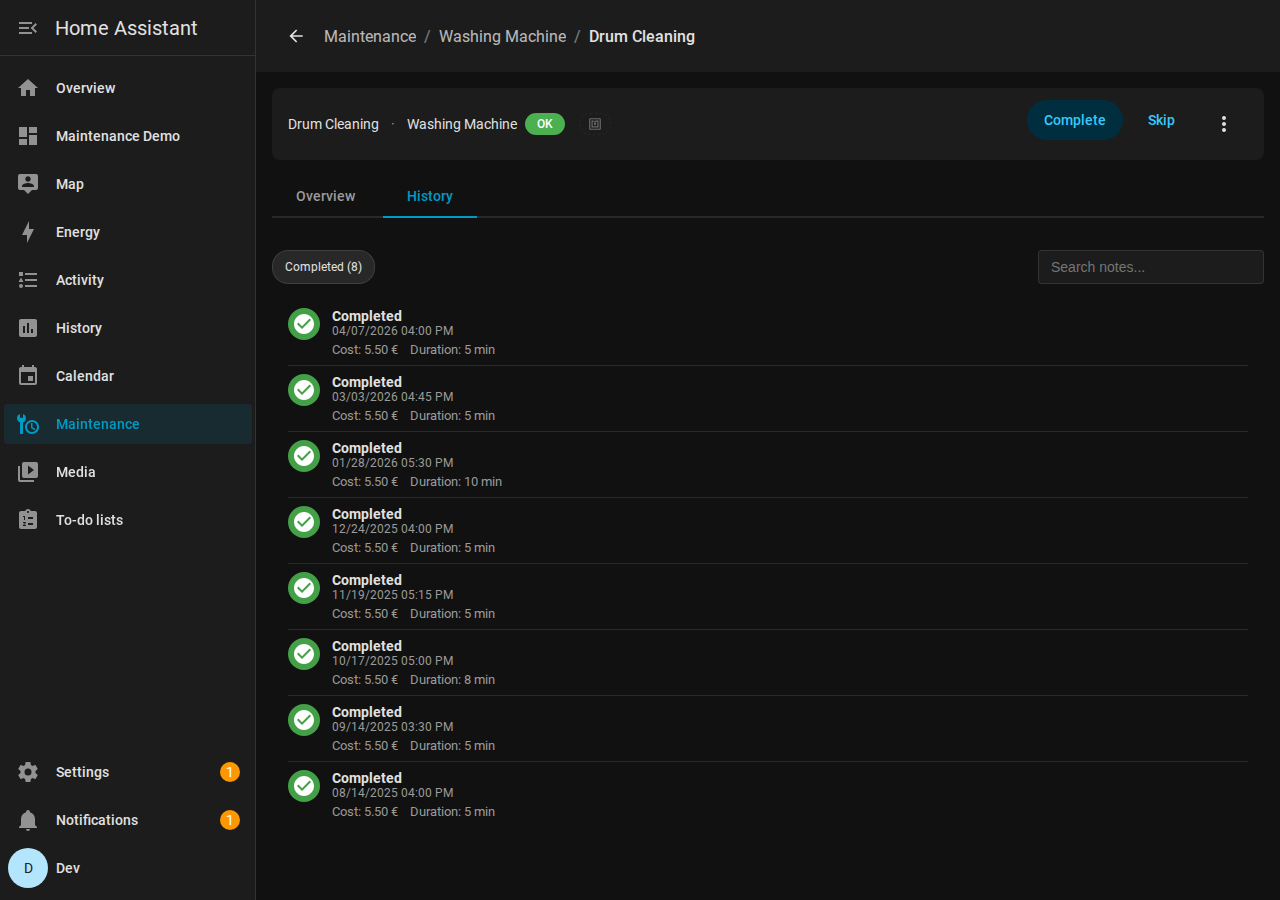
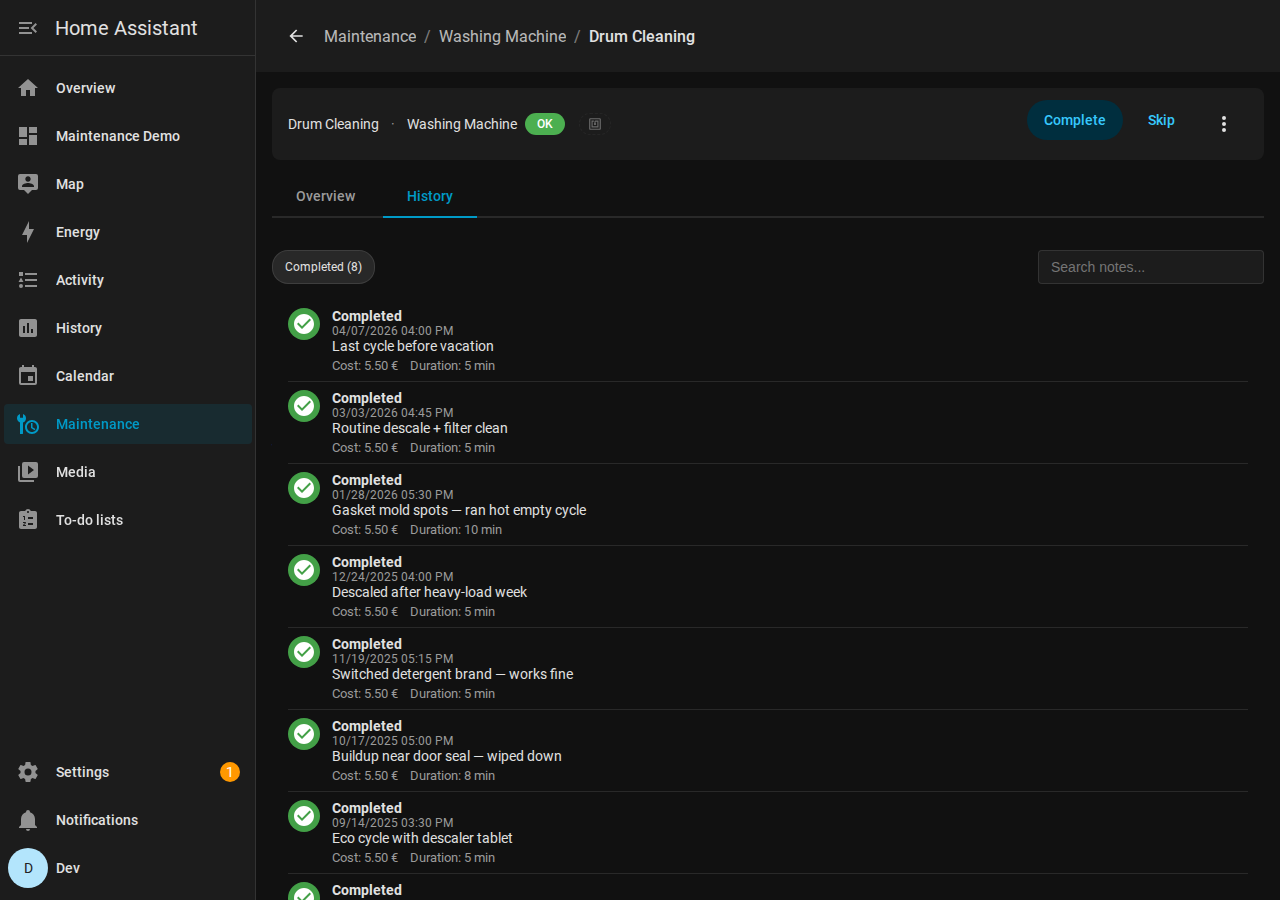
fix: Recent Activities showed oldest completions instead of newest
task.history is stored oldest-first (backend appends on complete), so
slice(0, 3) was pulling the three earliest entries — often missing the
one the user had just logged. Switched to slice(-3).reverse() so the
task-detail Overview now matches the label "Recent Activities".

Also replaced all remaining German completion notes in seed_history.py
with English equivalents and filled in notes for the 8 Washing Machine
Drum Cleaning and 3 recent Swimming Pool pH Test entries, so the
task-history and complete-dialog screenshots demonstrate the feature
instead of rendering "—" placeholders.

Changed region(s): [[0.2188, 0.3733, 0.4688, 1.0], [0.1562, 0.9022, 0.1875, 0.9333]]

diff --git a/custom_components/maintenance_supporter/frontend/maintenance-panel.js b/custom_components/maintenance_supporter/frontend/maintenance-panel.js
@@ -4120,7 +4120,7 @@ ${Y}`,e.setTooltip)}
           </ha-button>
         </div>
       </div>
-    `}_renderRecentActivities(e){let t=this._lang,i=e.history.slice(0,3);if(i.length===0)return d;let s=l=>{switch(l){case"completed":return"\u2713";case"triggered":return"\u2297";case"skipped":return"\u21B7";case"reset":return"\u21BA";default:return"\xB7"}};return o`
+    `}_renderRecentActivities(e){let t=this._lang,i=e.history.slice(-3).reverse();if(i.length===0)return d;let s=l=>{switch(l){case"completed":return"\u2713";case"triggered":return"\u2297";case"skipped":return"\u21B7";case"reset":return"\u21BA";default:return"\xB7"}};return o`
       <div class="recent-activities">
         <h3>${a("recent_activities",t)}</h3>
         ${i.map(l=>o`

diff --git a/custom_components/maintenance_supporter/frontend-src/maintenance-panel.ts b/custom_components/maintenance_supporter/frontend-src/maintenance-panel.ts
@@ -1576,7 +1576,7 @@ export class MaintenanceSupporterPanel extends LitElement {
 
   private _renderRecentActivities(task: MaintenanceTask) {
     const L = this._lang;
-    const recent = task.history.slice(0, 3);
+    const recent = task.history.slice(-3).reverse();
 
     if (recent.length === 0) {
       return nothing;

diff --git a/scripts/seed_history.py b/scripts/seed_history.py
@@ -44,13 +44,13 @@ HISTORY_DATA: dict[str, dict[str, dict]] = {
     "HVAC System": {
         "Filter Replacement": {
             "history": [
-                {"timestamp": days_ago(322, 9, 30), "type": "completed", "notes": "Filter stark verschmutzt",
+                {"timestamp": days_ago(322, 9, 30), "type": "completed", "notes": "Filter very dirty",
                  "cost": 28.90, "duration": 20, "feedback": "needed", "trigger_value": 57},
-                {"timestamp": days_ago(235, 14, 0), "type": "completed", "notes": "Normaler Verschleiß",
+                {"timestamp": days_ago(235, 14, 0), "type": "completed", "notes": "Normal wear",
                  "cost": 28.90, "duration": 15, "feedback": "needed", "trigger_value": 62},
-                {"timestamp": days_ago(146, 10, 15), "type": "completed", "notes": "Noch ok, vorsorglich gewechselt",
+                {"timestamp": days_ago(146, 10, 15), "type": "completed", "notes": "Still OK, replaced preventively",
                  "cost": 32.50, "duration": 20, "feedback": "not_sure", "trigger_value": 68},
-                {"timestamp": days_ago(59, 11, 0), "type": "completed", "notes": "Winterbetrieb, Filter verschmutzt",
+                {"timestamp": days_ago(59, 11, 0), "type": "completed", "notes": "Winter operation, filter dirty",
                  "cost": 32.50, "duration": 25, "feedback": "needed", "trigger_value": 55},
             ],
         },
@@ -58,7 +58,7 @@ HISTORY_DATA: dict[str, dict[str, dict]] = {
     "Family Car": {
         "Oil Change": {
             "history": [
-                {"timestamp": days_ago(261, 8, 0), "type": "completed", "notes": "Werkstatt, 5W-30 Longlife",
+                {"timestamp": days_ago(261, 8, 0), "type": "completed", "notes": "Workshop, 5W-30 Longlife",
                  "cost": 89.90, "duration": 45, "feedback": "needed", "trigger_value": 45000},
             ],
             "trigger_runtime": {
@@ -67,9 +67,9 @@ HISTORY_DATA: dict[str, dict[str, dict]] = {
         },
         "Tire Rotation": {
             "history": [
-                {"timestamp": days_ago(311, 10, 0), "type": "completed", "notes": "Winter auf Sommer getauscht",
+                {"timestamp": days_ago(311, 10, 0), "type": "completed", "notes": "Winter-to-summer swap",
                  "cost": 45.00, "duration": 30, "feedback": "needed"},
-                {"timestamp": days_ago(127, 9, 30), "type": "completed", "notes": "Sommer auf Winter getauscht",
+                {"timestamp": days_ago(127, 9, 30), "type": "completed", "notes": "Summer-to-winter swap",
                  "cost": 49.00, "duration": 35, "feedback": "needed"},
             ],
         },
@@ -77,14 +77,22 @@ HISTORY_DATA: dict[str, dict[str, dict]] = {
     "Washing Machine": {
         "Drum Cleaning": {
             "history": [
-                {"timestamp": days_ago(250, 18, 0), "type": "completed", "cost": 5.50, "duration": 5, "feedback": "needed"},
-                {"timestamp": days_ago(219, 17, 30), "type": "completed", "cost": 5.50, "duration": 5, "feedback": "needed"},
-                {"timestamp": days_ago(186, 19, 0), "type": "completed", "cost": 5.50, "duration": 8, "feedback": "needed"},
-                {"timestamp": days_ago(153, 18, 15), "type": "completed", "cost": 5.50, "duration": 5, "feedback": "not_sure"},
-                {"timestamp": days_ago(118, 17, 0), "type": "completed", "cost": 5.50, "duration": 5, "feedback": "needed"},
-                {"timestamp": days_ago(83, 18, 30), "type": "completed", "cost": 5.50, "duration": 10, "feedback": "needed"},
-                {"timestamp": days_ago(49, 17, 45), "type": "completed", "cost": 5.50, "duration": 5, "feedback": "needed"},
-                {"timestamp": days_ago(14, 18, 0), "type": "completed", "cost": 5.50, "duration": 5, "feedback": "not_needed"},
+                {"timestamp": days_ago(250, 18, 0), "type": "completed", "notes": "Quarterly descaling — minor residue",
+                 "cost": 5.50, "duration": 5, "feedback": "needed"},
+                {"timestamp": days_ago(219, 17, 30), "type": "completed", "notes": "Eco cycle with descaler tablet",
+                 "cost": 5.50, "duration": 5, "feedback": "needed"},
+                {"timestamp": days_ago(186, 19, 0), "type": "completed", "notes": "Buildup near door seal — wiped down",
+                 "cost": 5.50, "duration": 8, "feedback": "needed"},
+                {"timestamp": days_ago(153, 18, 15), "type": "completed", "notes": "Switched detergent brand — works fine",
+                 "cost": 5.50, "duration": 5, "feedback": "not_sure"},
+                {"timestamp": days_ago(118, 17, 0), "type": "completed", "notes": "Descaled after heavy-load week",
+                 "cost": 5.50, "duration": 5, "feedback": "needed"},
+                {"timestamp": days_ago(83, 18, 30), "type": "completed", "notes": "Gasket mold spots — ran hot empty cycle",
+                 "cost": 5.50, "duration": 10, "feedback": "needed"},
+                {"timestamp": days_ago(49, 17, 45), "type": "completed", "notes": "Routine descale + filter clean",
+                 "cost": 5.50, "duration": 5, "feedback": "needed"},
+                {"timestamp": days_ago(14, 18, 0), "type": "completed", "notes": "Last cycle before vacation",
+                 "cost": 5.50, "duration": 5, "feedback": "not_needed"},
             ],
             "trigger_runtime": {
                 "input_boolean.washing_machine_running": {"change_count": 6},
@@ -94,16 +102,16 @@ HISTORY_DATA: dict[str, dict[str, dict]] = {
     "Water Softener": {
         "Refill Salt": {
             "history": [
-                {"timestamp": days_ago(302, 10, 0), "type": "completed", "notes": "25kg Sack",
+                {"timestamp": days_ago(302, 10, 0), "type": "completed", "notes": "25kg bag",
                  "cost": 15.90, "duration": 10, "feedback": "needed", "trigger_value": 32},
                 {"timestamp": days_ago(256, 9, 30), "type": "completed",
                  "cost": 15.90, "duration": 12, "feedback": "needed", "trigger_value": 24},
                 {"timestamp": days_ago(212, 11, 0), "type": "completed",
                  "cost": 18.50, "duration": 10, "feedback": "needed", "trigger_value": 12},
-                {"timestamp": days_ago(170, 0, 0), "type": "skipped", "notes": "Im Urlaub"},
+                {"timestamp": days_ago(170, 0, 0), "type": "skipped", "notes": "On vacation"},
                 {"timestamp": days_ago(155, 10, 30), "type": "completed",
                  "cost": 18.50, "duration": 15, "feedback": "needed", "trigger_value": 8},
-                {"timestamp": days_ago(110, 9, 0), "type": "completed", "notes": "Doppelpack gekauft",
+                {"timestamp": days_ago(110, 9, 0), "type": "completed", "notes": "Bought double pack",
                  "cost": 22.00, "duration": 10, "feedback": "needed", "trigger_value": 28},
                 {"timestamp": days_ago(52, 10, 0), "type": "completed",
                  "cost": 18.50, "duration": 12, "feedback": "needed", "trigger_value": 16},
@@ -134,13 +142,13 @@ HISTORY_DATA: dict[str, dict[str, dict]] = {
     "Water Filter System": {
         "Cartridge Replacement": {
             "history": [
-                {"timestamp": days_ago(663, 10, 0), "type": "completed", "notes": "Erster Wechsel nach Einbau",
+                {"timestamp": days_ago(663, 10, 0), "type": "completed", "notes": "First change after install",
                  "cost": 48.00, "duration": 15, "feedback": "needed", "trigger_value": 2.1},
-                {"timestamp": days_ago(474, 11, 0), "type": "completed", "notes": "Zu lange gewartet, Durchfluss sehr niedrig",
+                {"timestamp": days_ago(474, 11, 0), "type": "completed", "notes": "Waited too long, flow very low",
                  "cost": 50.00, "duration": 18, "feedback": "needed", "trigger_value": 1.5},
-                {"timestamp": days_ago(293, 11, 0), "type": "completed", "notes": "Durchfluss bei 1.8 L/min",
+                {"timestamp": days_ago(293, 11, 0), "type": "completed", "notes": "Flow at 1.8 L/min",
                  "cost": 52.00, "duration": 20, "feedback": "needed", "trigger_value": 1.8},
-                {"timestamp": days_ago(118, 10, 30), "type": "completed", "notes": "Zähler bei 14500L",
+                {"timestamp": days_ago(118, 10, 30), "type": "completed", "notes": "Counter at 14500L",
                  "cost": 55.00, "duration": 18, "feedback": "needed", "trigger_value": 1.9},
             ],
             "trigger_runtime": {
@@ -162,11 +170,14 @@ HISTORY_DATA: dict[str, dict[str, dict]] = {
                 {"timestamp": days_ago(237, 10, 0), "type": "completed", "cost": 4.20, "duration": 8},
                 {"timestamp": days_ago(223, 10, 30), "type": "completed", "cost": 4.20, "duration": 10, "feedback": "needed"},
                 {"timestamp": days_ago(209, 9, 30), "type": "completed", "cost": 4.20, "duration": 8},
-                {"timestamp": days_ago(195, 10, 0), "type": "completed", "cost": 4.20, "duration": 10, "feedback": "needed",
+                {"timestamp": days_ago(195, 10, 0), "type": "completed", "notes": "pH 7.6, chlorine 1.2 — adjusted",
+                 "cost": 4.20, "duration": 10, "feedback": "needed",
                  "checklist_state": {"pH-Wert messen": True, "Chlorgehalt prüfen": True, "Wasserstand kontrollieren": True}},
-                {"timestamp": days_ago(181, 10, 15), "type": "completed", "cost": 4.20, "duration": 8},
-                {"timestamp": days_ago(167, 10, 0), "type": "completed", "cost": 4.20, "duration": 10, "feedback": "needed"},
-                {"timestamp": days_ago(153, 10, 30), "type": "completed", "notes": "Saison-Ende, Wintervorbereitung",
+                {"timestamp": days_ago(181, 10, 15), "type": "completed", "notes": "pH 7.4, chlorine stable",
+                 "cost": 4.20, "duration": 8},
+                {"timestamp": days_ago(167, 10, 0), "type": "completed", "notes": "After heavy rain — pH dropped to 7.0",
+                 "cost": 4.20, "duration": 10, "feedback": "needed"},
+                {"timestamp": days_ago(153, 10, 30), "type": "completed", "notes": "End of season, winter prep",
                  "cost": 4.20, "duration": 15, "feedback": "needed"},
             ],
         },
@@ -187,7 +198,7 @@ HISTORY_DATA: dict[str, dict[str, dict]] = {
                 {"timestamp": days_ago(230, 10, 30), "type": "completed", "cost": 11.50, "duration": 15},
                 {"timestamp": days_ago(223, 11, 0), "type": "completed", "cost": 11.50, "duration": 18},
                 {"timestamp": days_ago(216, 11, 30), "type": "completed", "cost": 11.50, "duration": 15},
-                {"timestamp": days_ago(209, 10, 45), "type": "completed", "notes": "Algenbehandlung extra",
+                {"timestamp": days_ago(209, 10, 45), "type": "completed", "notes": "Extra algae treatment",
                  "cost": 15.00, "duration": 25},
             ],
         },
@@ -204,7 +215,7 @@ HISTORY_DATA: dict[str, dict[str, dict]] = {
         },
         "Lubrication": {
             "history": [
-                {"timestamp": days_ago(266, 20, 0), "type": "completed", "notes": "Achsen + Spindel",
+                {"timestamp": days_ago(266, 20, 0), "type": "completed", "notes": "Axes + lead screw",
                  "cost": 4.50, "duration": 10, "feedback": "needed"},
                 {"timestamp": days_ago(206, 19, 30), "type": "completed",
                  "cost": 4.50, "duration": 10, "feedback": "needed"},
@@ -219,18 +230,18 @@ HISTORY_DATA: dict[str, dict[str, dict]] = {
         "Tire Pressure Check": {
             "history": [
                 {"timestamp": days_ago(113, 9, 0), "type": "completed",
-                 "notes": "Alle 4 Reifen ok, aufgefüllt auf 2.5",
+                 "notes": "All 4 tires OK, inflated to 2.5",
                  "cost": 0, "duration": 10, "feedback": "needed", "trigger_value": 2.4,
                  "checklist_state": {"VL prüfen": True, "VR prüfen": True, "HL prüfen": True, "HR prüfen": True, "Profiltiefe kontrollieren": True}},
                 {"timestamp": days_ago(78, 10, 0), "type": "completed",
-                 "notes": "VL leicht niedrig (2.3), alle aufgefüllt auf 2.5",
+                 "notes": "FL slightly low (2.3), all inflated to 2.5",
                  "cost": 0, "duration": 12, "feedback": "needed", "trigger_value": 2.3,
                  "checklist_state": {"VL prüfen": True, "VR prüfen": True, "HL prüfen": True, "HR prüfen": True, "Profiltiefe kontrollieren": True}},
                 {"timestamp": days_ago(42, 9, 30), "type": "completed",
-                 "notes": "Alle bei ~2.3 bar, aufgefüllt",
+                 "notes": "All at ~2.3 bar, inflated",
                  "cost": 0, "duration": 10, "feedback": "not_sure", "trigger_value": 2.3},
                 {"timestamp": days_ago(8, 10, 15), "type": "completed",
-                 "notes": "Kaltes Wetter, VL bei 2.2, alle aufgefüllt",
+                 "notes": "Cold weather, FL at 2.2, all inflated",
                  "cost": 0, "duration": 10, "feedback": "needed", "trigger_value": 2.2,
                  "checklist_state": {"VL prüfen": True, "VR prüfen": True, "HL prüfen": True, "HR prüfen": True, "Profiltiefe kontrollieren": False}},
             ],
@@ -238,13 +249,13 @@ HISTORY_DATA: dict[str, dict[str, dict]] = {
         "Brake Pad Inspection": {
             "history": [
                 {"timestamp": days_ago(158, 8, 30), "type": "completed",
-                 "notes": "8.5mm, noch viel Reserve",
+                 "notes": "8.5mm, plenty of reserve",
                  "cost": 0, "duration": 15, "feedback": "not_needed", "trigger_value": 8.5},
             ],
         },
         "Cabin Air Filter": {
             "history": [
-                {"timestamp": days_ago(174, 14, 0), "type": "completed", "notes": "HEPA Filter gewechselt",
+                {"timestamp": days_ago(174, 14, 0), "type": "completed", "notes": "HEPA filter replaced",
                  "cost": 35.00, "duration": 20, "feedback": "needed"},
             ],
         },
